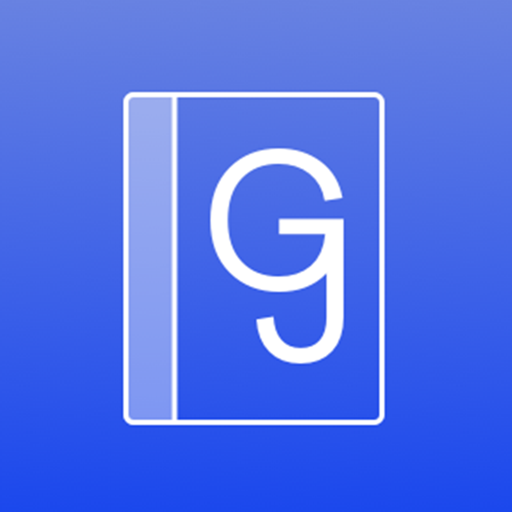
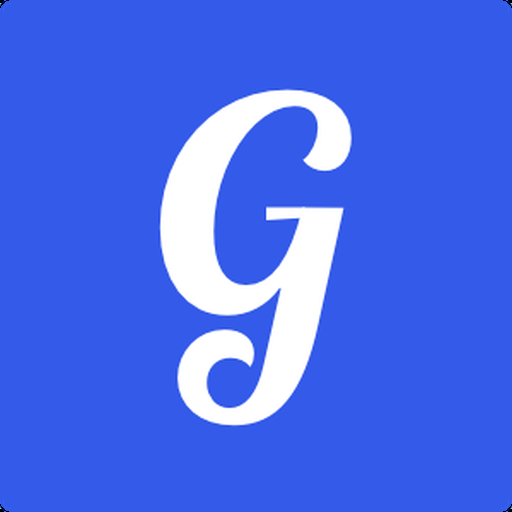
new splash, updated assets, bugfixes with swipe integration

diff --git a/src/screens/GratitudePrompt/index.js b/src/screens/GratitudePrompt/index.js
@@ -142,7 +142,7 @@ class GratitudePrompt extends Component {
     } else {
       return
     }
-    this.changeIndex(INDICES.prompt)
+    // this.changeIndex(INDICES.prompt)
   }
   toggleKeyboard = () => {
   }
